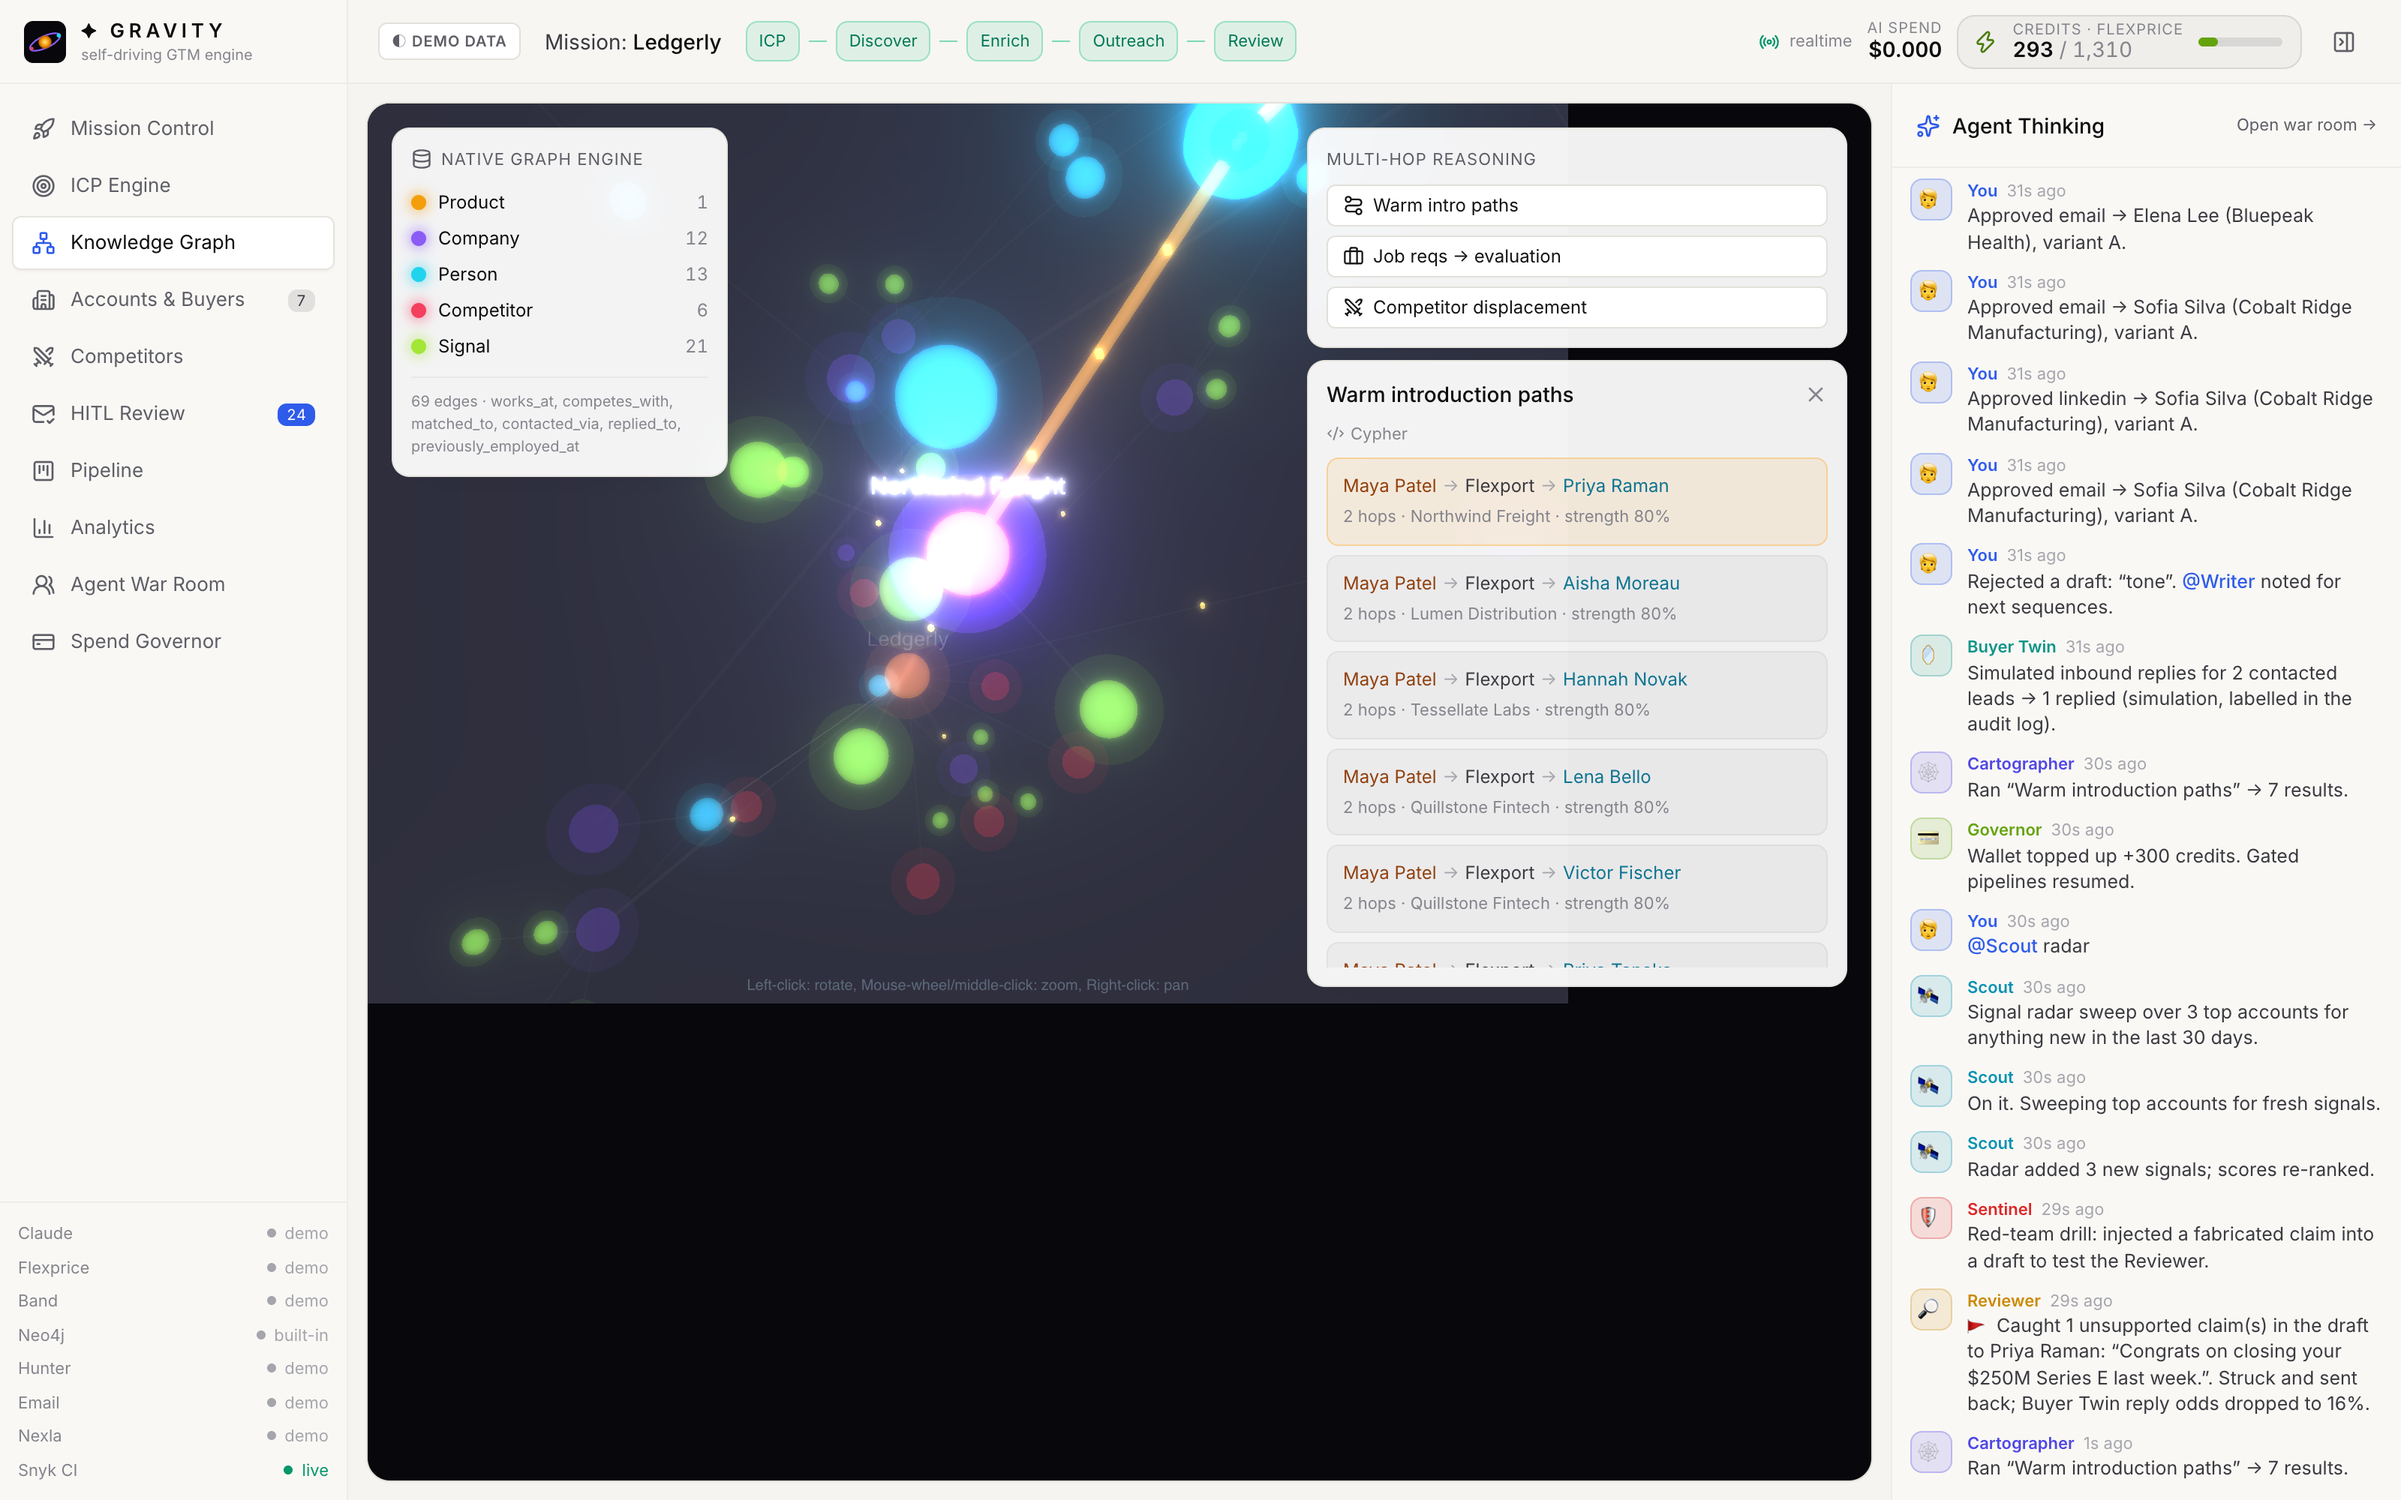
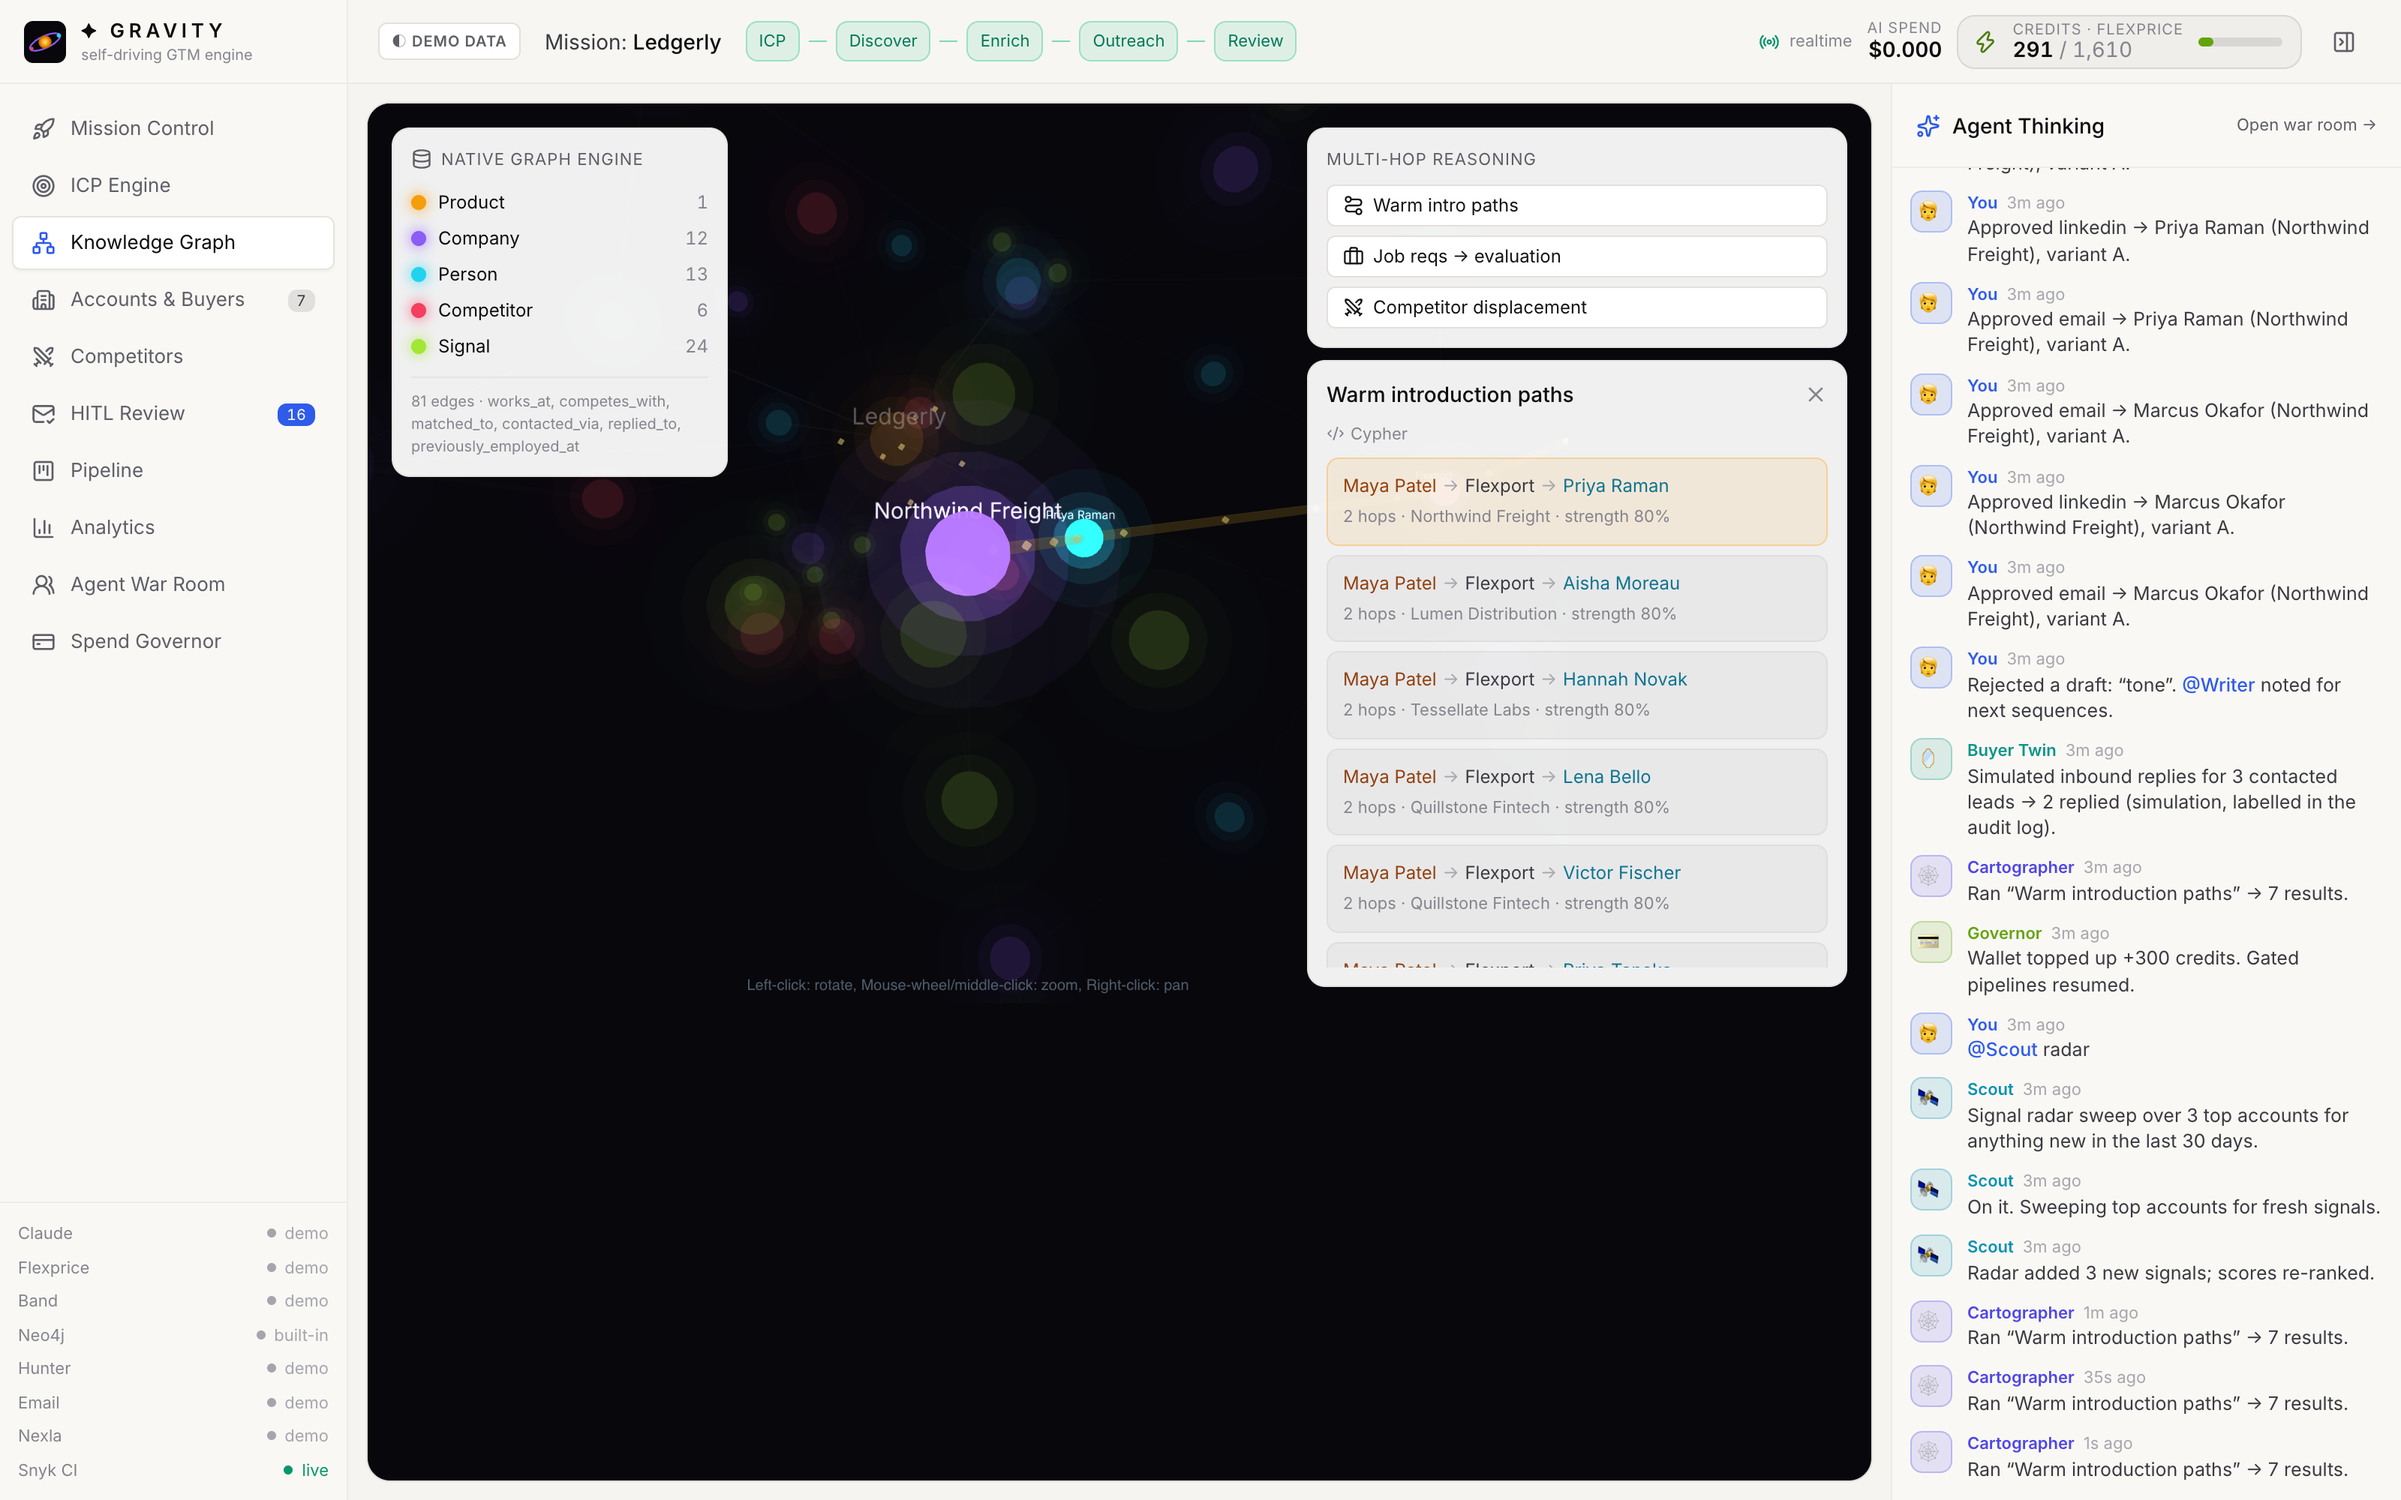
Graph: additive halo glow (no post-processing), refreshed screenshots

Changed region(s): [[0.125, 0.062, 0.6562, 0.682], [0.7812, 0.124, 1.0, 0.992]]

diff --git a/web/src/views/Graph.jsx b/web/src/views/Graph.jsx
@@ -2,7 +2,6 @@ import { useEffect, useMemo, useRef, useState, useCallback } from "react";
 import ForceGraph3D from "react-force-graph-3d";
 import SpriteText from "three-spritetext";
 import * as THREE from "three";
-import { UnrealBloomPass } from "three/examples/jsm/postprocessing/UnrealBloomPass.js";
 import { Network, Route, Briefcase, Swords, Play, X, Database, Code2 } from "lucide-react";
 import { api } from "../api";
 import { Button, Badge, cx, useAction, Empty } from "../ui";
@@ -43,12 +42,10 @@ export default function Graph({ state, graphVersion, go }) {
 
   const bloomed = useRef(false);
   const fitted = useRef(false);
+
   useEffect(() => {
     const f = fg.current;
     if (!f) return;
-    if (!bloomed.current && f.postProcessingComposer) {
-      try { f.postProcessingComposer().addPass(new UnrealBloomPass(new THREE.Vector2(size.w, size.h), 1.15, 0.6, 0.08)); bloomed.current = true; } catch { /* bloom optional */ }
-    }
     f.d3Force("charge")?.strength(-90);
     f.d3Force("link")?.distance((l) => (l.type === "has_signal" ? 18 : l.type === "works_at" ? 26 : 48));
   }, [data.nodes.length]);
@@ -67,8 +64,9 @@ export default function Graph({ state, graphVersion, go }) {
     const lit = hl.nodes.size === 0 || hl.nodes.has(n.id);
     const mat = new THREE.MeshBasicMaterial({ color: c, transparent: true, opacity: lit ? 0.95 : 0.12 });
     group.add(new THREE.Mesh(new THREE.SphereGeometry(r, 20, 20), mat));
-    const halo = new THREE.Mesh(new THREE.SphereGeometry(r * 1.9, 16, 16), new THREE.MeshBasicMaterial({ color: c, transparent: true, opacity: lit ? 0.12 : 0.02, depthWrite: false }));
-    group.add(halo);
+    for (const [k, o] of [[1.6, 0.22], [2.4, 0.09], [3.6, 0.04]]) {
+      group.add(new THREE.Mesh(new THREE.SphereGeometry(r * k, 16, 16), new THREE.MeshBasicMaterial({ color: c, transparent: true, opacity: lit ? o : o / 6, depthWrite: false, blending: THREE.AdditiveBlending })));
+    }
     if (n.label !== "Signal" && (lit || n.label === "Product")) {
       const t = new SpriteText(n.name?.length > 26 ? n.name.slice(0, 25) + "…" : n.name || "");
       t.color = lit ? "#e5e7eb" : "#52525b";
